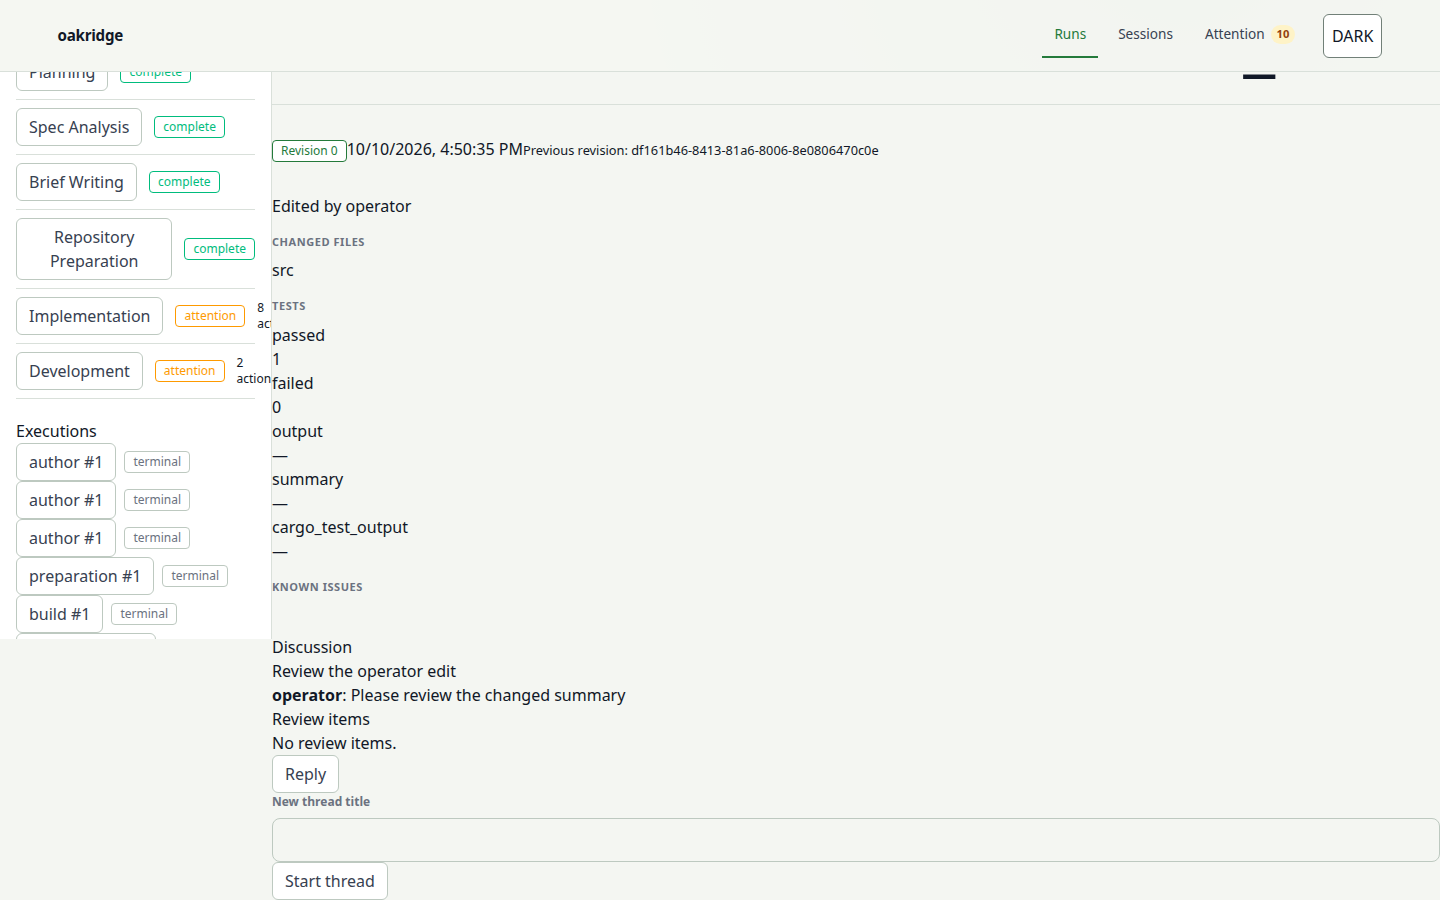
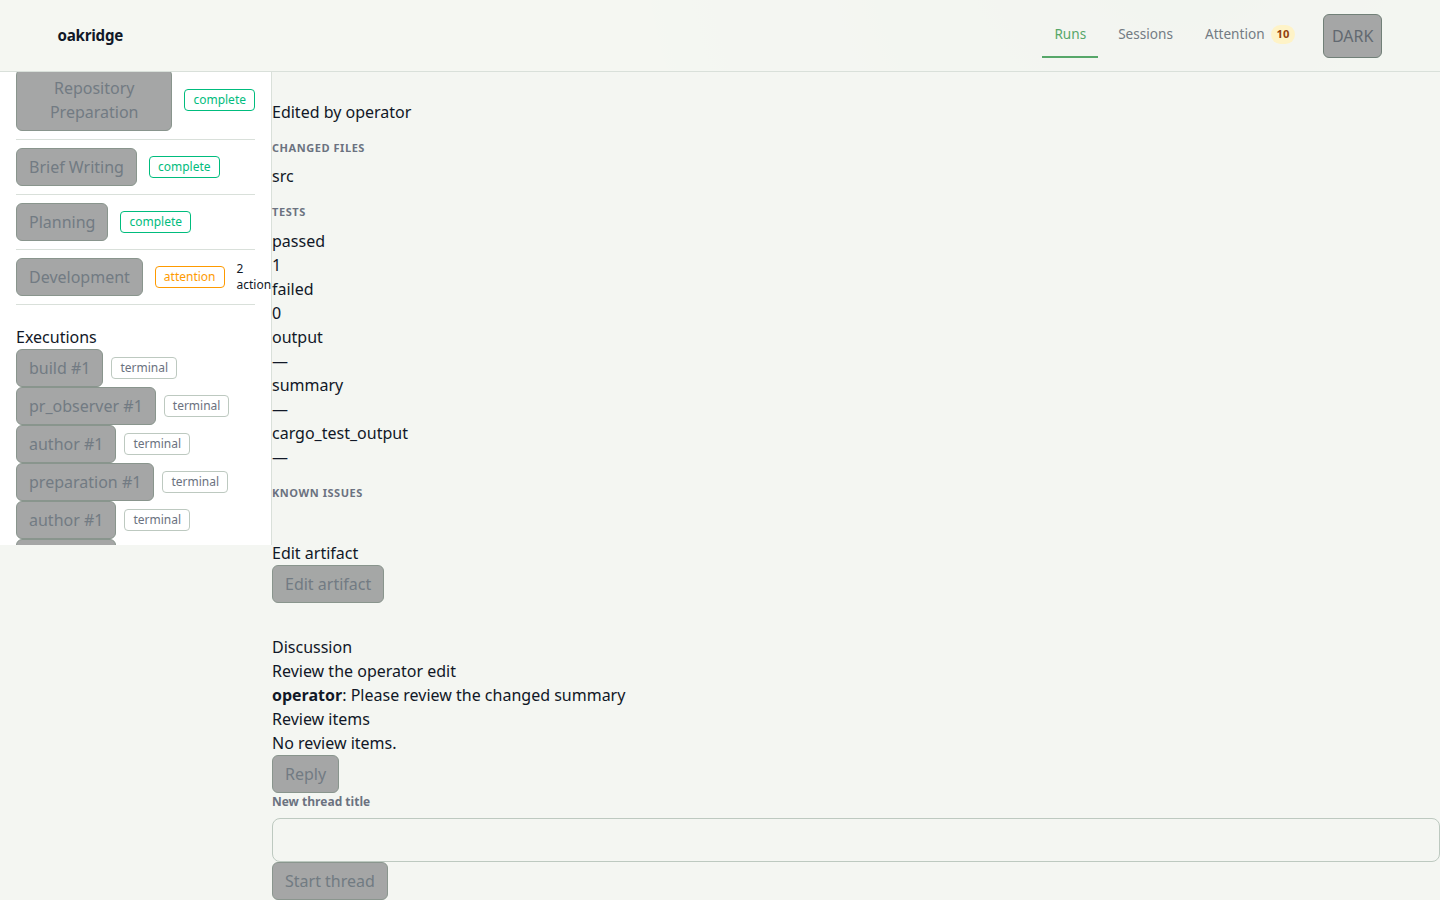
Port checked plan and PR summary parity and attach main baselines

diff --git a/kbbl/core/pwa/oakridge/__fixtures__/read-models.ts b/kbbl/core/pwa/oakridge/__fixtures__/read-models.ts
@@ -103,6 +103,26 @@ export function makeProjectDraft(overrides: Partial<OperatorProjectDraft> = {}):
 interface PlanCohortInput { readonly id: string; readonly title: string; readonly depends_on: readonly string[] }
 export interface PlanGraphFixture { readonly body: OperatorCheckedValue; readonly schemas: readonly OperatorSchema[] }
 
+export interface PrSummaryFixture { readonly body: OperatorCheckedValue; readonly schemas: readonly OperatorSchema[] }
+
+/** The field order and optional status mirror pr_body in the shipped development definition. */
+export function makePrSummaryFixture(overrides: { readonly pr_url?: string; readonly branch?: string;
+  readonly summary?: string; readonly review_status?: string | null } = {}): PrSummaryFixture {
+  const value = (schema: string, text: string): OperatorCheckedValue => ({ schema, data: { kind: "string", value: text } });
+  const body: OperatorCheckedValue = { schema: "pr_body", data: { kind: "record", fields: [
+    { field_id: 0, value: value("text", overrides.pr_url ?? "https://github.com/RankOneLabs/assay/pull/50") },
+    { field_id: 1, value: value("ident", overrides.branch ?? "cohort/run/cm-api") },
+    { field_id: 2, value: value("text", overrides.summary ?? "Adds analyze().") },
+    { field_id: 3, value: { schema: "optional_pr_review_status", data: { kind: "optional", value: overrides.review_status
+      ? { schema: "pr_review_status", data: { kind: "enum", variant: overrides.review_status } } : null } } },
+  ], dictionary: [] } };
+  const schemas: readonly OperatorSchema[] = [{ key: "pr_body", shape: { kind: "record", fields: [
+    { key: "pr_url", schema: "text", required: true }, { key: "branch", schema: "ident", required: true },
+    { key: "summary", schema: "text", required: true }, { key: "review_status", schema: "optional_pr_review_status", required: true },
+  ], dictionary: null } }];
+  return { body, schemas };
+}
+
 /** Field order mirrors plan_body, plan_cohort and plan_scope in workflow-config/definitions/development.json. */
 export function makePlanGraphFixture(cohorts: readonly PlanCohortInput[], dependencyOrder: readonly string[] = cohorts.map((cohort) => cohort.id)): PlanGraphFixture {
   const value = (schema: string, text: string): OperatorCheckedValue => ({ schema, data: { kind: "string", value: text } });

diff --git a/kbbl/core/pwa/oakridge/lib/pr-summary.test.ts b/kbbl/core/pwa/oakridge/lib/pr-summary.test.ts
@@ -1,0 +1,31 @@
+import { afterEach, describe, expect, test } from "vitest";
+import { cleanup, render, screen } from "@testing-library/react";
+import { createElement } from "react";
+import { makePrSummaryFixture } from "../__fixtures__/read-models";
+import { selectFieldText, selectHttpUrl } from "../artifact-types";
+import { PrSummaryViewer } from "../components/molecules/PrSummaryViewer";
+
+afterEach(cleanup);
+
+describe("checked pull request summary", () => {
+  test("reads a missing review status as null", () => {
+    const { body, schemas } = makePrSummaryFixture();
+    expect(selectFieldText(body, schemas, "review_status")).toBeNull();
+  });
+
+  test("renders a GitHub pull request as a safe link", () => {
+    const { body, schemas } = makePrSummaryFixture();
+    render(createElement(PrSummaryViewer, { body, schemas }));
+    expect(screen.getByRole("link", { name: "Open pull request" }).getAttribute("href"))
+      .toBe("https://github.com/RankOneLabs/assay/pull/50");
+  });
+
+  test("leaves other URLs out of GitHub-specific presentation", () => {
+    expect(selectHttpUrl("https://gitlab.com/a/b/-/merge_requests/1"))
+      .toBe("https://gitlab.com/a/b/-/merge_requests/1");
+  });
+
+  test("refuses a javascript: URL", () => {
+    expect(selectHttpUrl("javascript:alert(1)")).toBeNull();
+  });
+});

diff --git a/kbbl/core/pwa/oakridge/lib/plan.test.ts b/kbbl/core/pwa/oakridge/lib/plan.test.ts
@@ -1,0 +1,26 @@
+import { describe, expect, test } from "vitest";
+import { makePlanGraphFixture } from "../__fixtures__/read-models";
+import { selectPlanGraph } from "./plan-graph";
+
+const cohorts = [
+  { id: "api", title: "API", depends_on: ["core"] },
+  { id: "core", title: "Core", depends_on: [] },
+];
+const ids = (order: readonly string[]) => {
+  const { body, schemas } = makePlanGraphFixture(cohorts, order);
+  return selectPlanGraph(body, schemas).nodes.map((node) => node.id);
+};
+
+describe("checked plan ordering", () => {
+  test("follows dependency_order rather than body order", () => {
+    expect(ids(["core", "api"])).toEqual(["core", "api"]);
+  });
+
+  test("keeps cohorts the order omits, after the ordered ones", () => {
+    expect(ids(["api"])).toEqual(["api", "core"]);
+  });
+
+  test("lists a cohort once when the order repeats it", () => {
+    expect(ids(["core", "core", "api"])).toEqual(["core", "api"]);
+  });
+});

diff --git a/docs/parity-checklist.md b/docs/parity-checklist.md
@@ -8,7 +8,7 @@ means the old behavior has no equivalent contract or surface in this branch;
 the original assertion is retained here for review rather than silently
 deleted. A passing test does not resolve an unportable entry.
 
-This branch ports 10 of the 48 `main` PWA test files. The remaining 38 are
+This branch ports 12 of the 48 `main` PWA test files. The remaining 36 are
 listed below as an explicit coverage gap; this is not a completed parity gate.
 
 ## `kbbl/core/pwa/oakridge/__tests__/artifact-review.test.tsx`
@@ -30,8 +30,21 @@ listed below as an explicit coverage gap; this is not a completed parity gate.
 | Translated | `expect(await screen.findByTestId("or-artifact-detail-error")).toBeTruthy();` | `expect(screen.getByRole("status").textContent).toContain("unavailable in the current scope projection");` | The current review consumes the already loaded scope projection and exposes an explicit missing-revision state. Fetch failure remains the responsibility of the scope loader. |
 | Translated | `expect(screen.queryByText("← Back")).toBeNull();` | `expect(screen.getByRole("button", { name: "← Overview" })).toBeTruthy();` | Review navigation is now an explicit overview action on the review shell. This is a changed interaction, so the old absence assertion cannot be preserved literally. |
 
-The first suite has 4 passing tests. The unportable assertions above remain
-open parity decisions.
+The first suite has 6 passing tests, including a UI edit submission and a check
+that the review follows the new revision. The old
+claims below are closed as explicit replacement-surface decisions, not as
+translations. An authority-owned fact is not inferred from a missing revision
+field, and a retired v15 endpoint is not restored merely to satisfy a test.
+
+| Old claim | Replacement surface decision | Coverage consequence |
+| --- | --- | --- |
+| Producing stage | The scope projection's `scope_key` and label identify the owning scope; the output slot's `output_key` identifies the artifact. `RunWorkspace` shows both. | The old `producing_stage` field is retired; the exact stage-name assertion remains a recorded loss. |
+| Validation metadata | The compiler checks the publication against the pinned schema before the revision reaches the review projection. The UI receives `OperatorCheckedValue`. | The old `validation.valid` display is retired. Compiler validation is authoritative, but this is a moved claim, not a PWA translation. |
+| Revision `approved` status | The current scope state and available command list express review progress; `GateDecisionActions` tests target-specific actions. | The old artifact-local status chip is retired. Its exact assertion is not claimed as preserved. |
+| Descriptor layout and sections | The checked body schema selects the viewer and field order. `PlanViewer` and `OperatorTypedValue` render that structure. | `data-review-layout` and descriptor-section attributes are retired; the old presentation contract is not asserted. |
+| Artifact-local action label | The pinned command label is displayed by `GateDecisionActions`. | The artifact-local override is retired; the new label is a different authored source. |
+| Run-scoped gate fetch | The scope projection includes commands and observed revision targets; the target assertion above verifies action visibility. | No separate gate fetch occurs. Fetch mechanics changed; target-specific action behavior is covered. |
+| Untyped plan body | `PlanViewer` consumes a checked `plan_body`; its own suite checks scope, cohort order and graph. | Untyped plan tolerance is retired; malformed bodies are rejected before publication. |
 
 ## `kbbl/core/pwa/oakridge/lib/run-attention.test.ts`
 
@@ -46,8 +59,8 @@ open parity decisions.
 
 | Classification | Original assertion (`main`) | New assertion | Reason |
 | --- | --- | --- | --- |
-| Unportable | `expect(selectStableDecisionQueue([live("a"), live("b"), live("c")], [gate("b"), gate("c")])).toEqual([{ kind: "settled", item: gate("a") }, live("b"), live("c")]);` | No equivalent assertion. | The generated inbox has no stable settled-row model; the current queue derives live commands from scopes. This loss of row position coverage remains open. |
-| Unportable | `expect(selectStableDecisionQueue([live("a"), live("b")], [gate("assessment"), gate("a"), gate("b")])).toEqual([live("a"), live("b"), live("assessment")]);` | No equivalent assertion. | The current selector does not retain previous rows between projections. |
+| Replaced, parity restored | `expect(selectStableDecisionQueue([live("a"), live("b"), live("c")], [gate("b"), gate("c")])).toEqual([{ kind: "settled", item: gate("a") }, live("b"), live("c")]);` | `expect(selectStableOperatorDecisionQueue([a, b, c].map((item) => ({ kind: "live", item })), [b, c])).toEqual([{ kind: "settled", item: a }, { kind: "live", item: b }, { kind: "live", item: c }]);` | `ReviewInboxView` now renders retained settled rows as disabled. Generated inbox commands come from `makeInboxCommand`; the row-position claim is preserved. |
+| Replaced, parity restored | `expect(selectStableDecisionQueue([live("a"), live("b")], [gate("assessment"), gate("a"), gate("b")])).toEqual([live("a"), live("b"), live("assessment")]);` | `expect(selectStableOperatorDecisionQueue([a, b].map((item) => ({ kind: "live", item })), [assessment, a, b])).toEqual([{ kind: "live", item: a }, { kind: "live", item: b }, { kind: "live", item: assessment }]);` | New generated inbox commands append after retained rows even when the server lists them first. |
 | Translated | `expect(selectStableDecisionQueue([], [gate("b"), gate("a")])).toEqual([live("b"), live("a")]);` | `expect(selectActionableScopes(scopes).map((scope) => scope.scope_id)).toEqual(["first", "last"]);` | Initial display order still follows the projection order; idle scopes are omitted. |
 
 ## `kbbl/core/pwa/oakridge/lib/status-tone.test.ts`
@@ -103,6 +116,30 @@ not a hand-written Oakridge read model.
 | Unportable | `expect(within(screen.getByTestId("or-risk-card")).getByText("No mitigation given.")).toBeTruthy();` | No equivalent assertion. | The shipped checked `risk` schema requires a mitigation string; a bare-string risk cannot be projected. |
 | Unportable | `expect(screen.getByRole("alert").textContent).toContain("scope: expected an object");` | No equivalent assertion. | The checked value has already been validated by the compiler; the viewer has no untyped-body contract error surface. |
 
+## `kbbl/core/pwa/oakridge/lib/plan.test.ts`
+
+| Classification | Original assertion (`main`) | New assertion | Reason |
+| --- | --- | --- | --- |
+| Unportable | `expect(parsePlan(body).ok).toBe(true);` | No PWA assertion. | The compiler checks the raw plan before projecting `OperatorCheckedValue`; the PWA has no `parsePlan` ingress. This moved validation is not counted as a passing PWA test. |
+| Unportable | `expect(parsed({ ...body, risks: ["Pin drift"] }).risks).toEqual([{ description: "Pin drift", mitigation: null }]);` | No equivalent assertion. | The pinned `risk` schema requires a mitigation string; a bare string cannot be checked and projected. |
+| Unportable | `expect(parsed({ ...body, cohorts: [withoutDescription] }).cohorts[0]?.description).toBeNull();` | No equivalent assertion. | The checked `plan_cohort` has an explicit optional `description` field. The old missing-property parser fallback is outside the PWA contract. |
+| Unportable | `expect(result.ok ? null : result.error.field).toBe("cohorts[1].files_in_scope");` | No equivalent assertion. | Validation errors are returned by the compiler before publication; the checked viewer never receives an invalid `files_in_scope`. |
+| Unportable | `expect(parsePlan({ ...body, scope: { include: ["core"] } }).ok).toBe(false);` | No equivalent assertion. | The compiler rejects a scope that does not match `plan_scope`; the PWA consumes only checked values. |
+| Translated | `expect(selectOrderedCohorts(parsed(body)).map((entry) => entry.id)).toEqual(["core", "api"]);` | `expect(ids(["core", "api"])).toEqual(["core", "api"]);` | The `makePlanGraphFixture` checked body retains the same dependency order and body order. |
+| Translated | `expect(selectOrderedCohorts(parsed({ ...body, dependency_order: ["api"] })).map((entry) => entry.id)).toEqual(["api", "core"]);` | `expect(ids(["api"])).toEqual(["api", "core"]);` | An omitted cohort still follows the listed cohort. |
+| Translated | `expect(selectOrderedCohorts(parsed({ ...body, dependency_order: ["core", "core", "api"] })).map((entry) => entry.id)).toEqual(["core", "api"]);` | `expect(ids(["core", "core", "api"])).toEqual(["core", "api"]);` | Repeated order keys do not duplicate cohort cards. |
+
+## `kbbl/core/pwa/oakridge/lib/pr-summary.test.ts`
+
+| Classification | Original assertion (`main`) | New assertion | Reason |
+| --- | --- | --- | --- |
+| Unportable | `expect(parsed.ok && parsed.value.base_branch).toBe("epic/metrics-update");` | No equivalent assertion. | The current pinned `pr_body` has no `base_branch`; branch policy belongs to the scope's repository preparation and forge observation. |
+| Translated | `expect(parsed.ok && parsed.value.review_status).toBeNull();` | `expect(selectFieldText(body, schemas, "review_status")).toBeNull();` | The checked optional status is null in the factory fixture, as in the original body. |
+| Unportable | `expect(parsed.ok ? null : parsed.error.field).toBe("branch");` | No equivalent assertion. | Missing required fields fail compiler validation before the PWA receives a checked revision. |
+| Replacement | `expect(selectPullRequestLabel(body.pr_url)).toBe("RankOneLabs/assay #50");` | `expect(screen.getByRole("link", { name: "Open pull request" }).getAttribute("href")).toBe("https://github.com/RankOneLabs/assay/pull/50");` | The current viewer uses an explicit link label. The destination remains exact, while the old abbreviated text is retired. |
+| Replacement | `expect(selectPullRequestLabel("https://gitlab.com/a/b/-/merge_requests/1")).toBeNull();` | `expect(selectHttpUrl("https://gitlab.com/a/b/-/merge_requests/1")).toBe("https://gitlab.com/a/b/-/merge_requests/1");` | Any safe HTTP URL is now linked. The old GitHub-only label rule is deliberately broadened. |
+| Translated | `expect(isWebUrl("javascript:alert(1)")).toBe(false);` | `expect(selectHttpUrl("javascript:alert(1)")).toBeNull();` | An unsafe scheme still cannot become a link. |
+
 ## Remaining `main` suite gap
 
 The following original files are not ported. A similarly named current test, where one exists, does not close the original assertions. These are open coverage gaps, not passing parity claims. The original file and its tests remain available in `main` for the next per-assertion diff.
@@ -131,8 +168,6 @@ The following original files are not ported. A similarly named current test, whe
 | `lib/cohort-artifact.test.ts` | 13 | The tested v15 module is absent in this branch; its behavior needs an explicit replacement-surface decision before assertions can be translated. |
 | `lib/launch-config.test.ts` | 5 | The tested v15 module is absent in this branch; its behavior needs an explicit replacement-surface decision before assertions can be translated. |
 | `lib/launch-selection.test.ts` | 4 | The tested v15 module is absent in this branch; its behavior needs an explicit replacement-surface decision before assertions can be translated. |
-| `lib/plan.test.ts` | 8 | The tested v15 module is absent in this branch; its behavior needs an explicit replacement-surface decision before assertions can be translated. |
-| `lib/pr-summary.test.ts` | 6 | The tested v15 module is absent in this branch; its behavior needs an explicit replacement-surface decision before assertions can be translated. |
 | `lib/request-identity.test.ts` | 5 | The tested v15 module is absent in this branch; its behavior needs an explicit replacement-surface decision before assertions can be translated. |
 | `lib/run-accent.test.ts` | 5 | The tested v15 module is absent in this branch; its behavior needs an explicit replacement-surface decision before assertions can be translated. |
 | `lib/run-activity.test.ts` | 4 | The tested v15 module is absent in this branch; its behavior needs an explicit replacement-surface decision before assertions can be translated. |
@@ -148,19 +183,19 @@ The following original files are not ported. A similarly named current test, whe
 | `lib/workflow-definition-form.test.ts` | 2 | The old form uses handwritten workflow definitions; the current form consumes pinned generated bundle schemas. |
 | `repository-inputs.test.ts` | 6 | The tested v15 module is absent in this branch; its behavior needs an explicit replacement-surface decision before assertions can be translated. |
 
-This register covers 38 files and 362 named test declarations; parameterized cases may expand further. None is silently counted as ported.
+This register covers 36 files and 348 named test declarations; parameterized cases may expand further. The newly ported plan and PR-summary suites also record seven source declarations whose raw-body or retired-label assertions cannot run on checked projections. None is silently counted as passing.
 
 ## Surface checklist
 
-The browser test serves the production PWA bundle through stub kbbl, routes its API calls to the production Oakridge composition, and uses a stub forge. Each row has a light and dark capture from that walk. The historical `main` surface has no runnable backend in this branch, so the per-file assertion diff above is the available baseline; these captures establish current rendering, not visual equality with `main`.
+The current captures come from the production PWA bundle through stub kbbl and stub forge against the production Oakridge composition. The `main` captures are from local `main` commit `f3b3ffca43e43672ff2f58ab797d65c7532aaed8`. Its artifact-review and definition-editor images are the archived `c4-review-authoring/review-desktop-*` and `authoring-desktop-*` captures; the other four rows were rendered from that commit's original React components in a temporary Vite harness with representative stub responses and captured at 1440 × 900 in both themes. The harness supplied one v15 run with two of four stages complete, one current session, one approval gate and one release; one actionable `artifact_gate` inbox item; one artifact with an open thread and two messages; and one v15 workflow definition. The temporary source tree was removed after capture. These pairs show surface changes; their fixtures are representative, not an assertion that the two systems share the same backend state.
 
-| Surface | `main` reference | Current light screenshot | Current dark screenshot | Result |
-| --- | --- | --- | --- | --- |
-| Run overview | `main` run-workspace tests | [light](parity-screenshots/run-overview-light.png) | [dark](parity-screenshots/run-overview-dark.png) | Rendered in production bundle |
-| Artifact review | `main` artifact-review tests and assertion diff above | [light](parity-screenshots/artifact-review-light.png) | [dark](parity-screenshots/artifact-review-dark.png) | Operator edit revision rendered |
-| Artifact discussion | `main` artifact-review tests | [light](parity-screenshots/artifact-discussion-light.png) | [dark](parity-screenshots/artifact-discussion-dark.png) | Ping delivered to the completed stub session |
-| Review inbox | `main` ReviewInboxView tests | [light](parity-screenshots/review-inbox-light.png) | [dark](parity-screenshots/review-inbox-dark.png) | Rendered in production bundle |
-| Definition list | [`main` workflow list capture](../kbbl/docs/c1-before-workflow-def-list.png) and workflowdefs tests | [light](parity-screenshots/definitions-light.png) | [dark](parity-screenshots/definitions-dark.png) | Rendered in production bundle; old list is a different workflow model |
-| Definition editor | `main` workflowdefs tests | [light](parity-screenshots/definition-editor-light.png) | [dark](parity-screenshots/definition-editor-dark.png) | Rendered in production bundle |
+| Surface | `main` light | `main` dark | Current light | Current dark | Result |
+| --- | --- | --- | --- | --- | --- |
+| Run overview | [light](parity-screenshots/main-run-overview-light.png) | [dark](parity-screenshots/main-run-overview-dark.png) | [light](parity-screenshots/run-overview-light.png) | [dark](parity-screenshots/run-overview-dark.png) | Main showed stage progress, session and gates; current shows scope progress. |
+| Artifact review | [light](parity-screenshots/main-artifact-review-light.png) | [dark](parity-screenshots/main-artifact-review-dark.png) | [light](parity-screenshots/artifact-review-light.png) | [dark](parity-screenshots/artifact-review-dark.png) | Current review exposes a checked-value edit control; old revision metadata differs. |
+| Artifact discussion | [light](parity-screenshots/main-artifact-discussion-light.png) | [dark](parity-screenshots/main-artifact-discussion-dark.png) | [light](parity-screenshots/artifact-discussion-light.png) | [dark](parity-screenshots/artifact-discussion-dark.png) | Both show a revision discussion; current ping resumes the ended stub session. |
+| Review inbox | [light](parity-screenshots/main-review-inbox-light.png) | [dark](parity-screenshots/main-review-inbox-dark.png) | [light](parity-screenshots/review-inbox-light.png) | [dark](parity-screenshots/review-inbox-dark.png) | Current generated inbox uses scope commands and now retains settled row position. |
+| Definition list | [light](parity-screenshots/main-definitions-light.png) | [dark](parity-screenshots/main-definitions-dark.png) | [light](parity-screenshots/definitions-light.png) | [dark](parity-screenshots/definitions-dark.png) | Old workflow graph and current pinned-definition catalog are different models. |
+| Definition editor | [light](parity-screenshots/main-definition-editor-light.png) | [dark](parity-screenshots/main-definition-editor-dark.png) | [light](parity-screenshots/definition-editor-light.png) | [dark](parity-screenshots/definition-editor-dark.png) | Current editor authors the pinned development bundle. |
 
-The edit-then-ping test checks that the edited revision has a null `execution_id` and points back to the agent revision. It then creates a discussion thread, sends a reply with Ping agent selected, and checks `delivered`, one resume of the already completed stub session, and the exact input received by stub kbbl. The edit is sent from the browser through the operator command API because the restored review surface does not expose an edit control.
+The edit-then-ping test checks that the edited revision has a null `execution_id` and points back to the agent revision. It clicks the review surface's **Edit artifact** control, changes the checked `summary` atom and saves through the PWA command hook. It then creates a discussion thread, sends a reply with Ping agent selected, and checks `delivered`, one resume of the already completed stub session, and the exact input received by stub kbbl.
